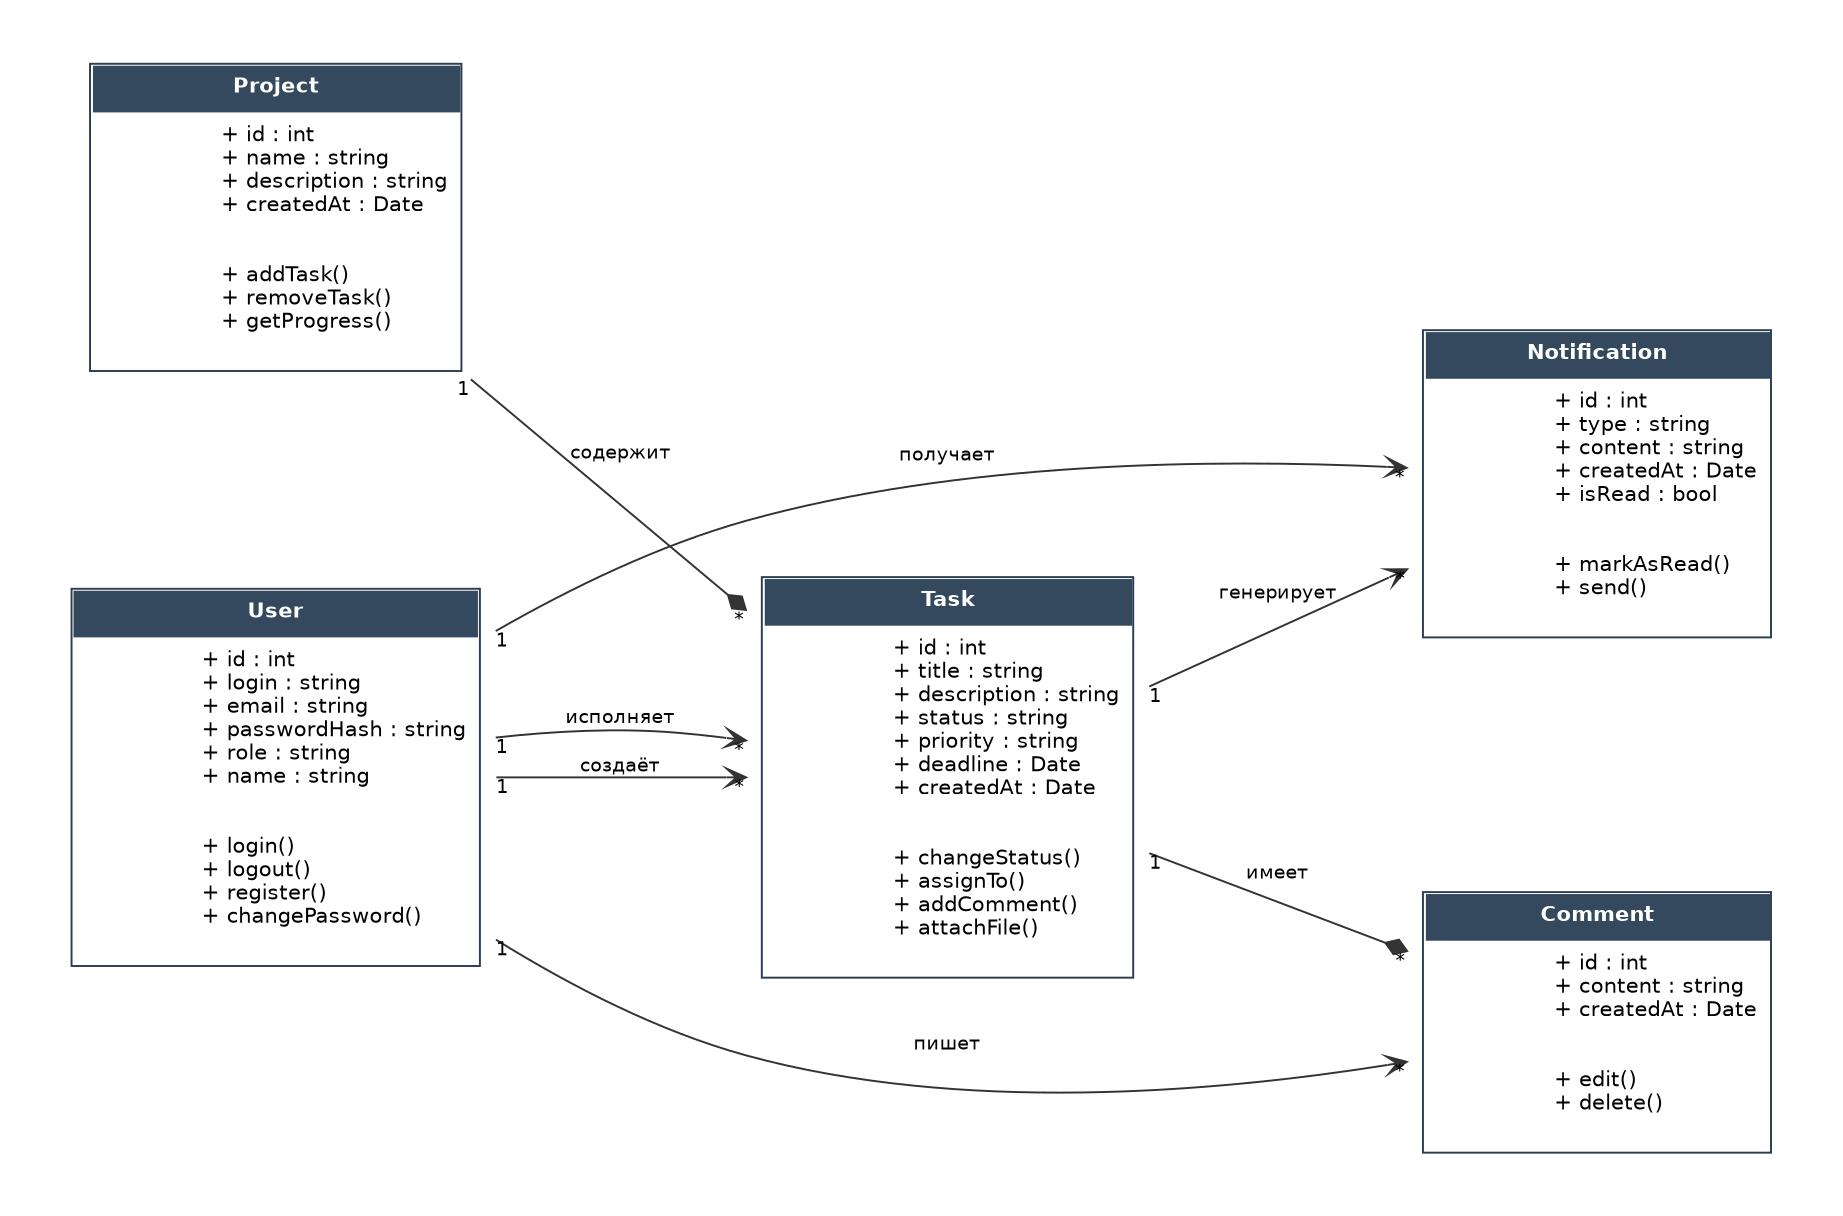
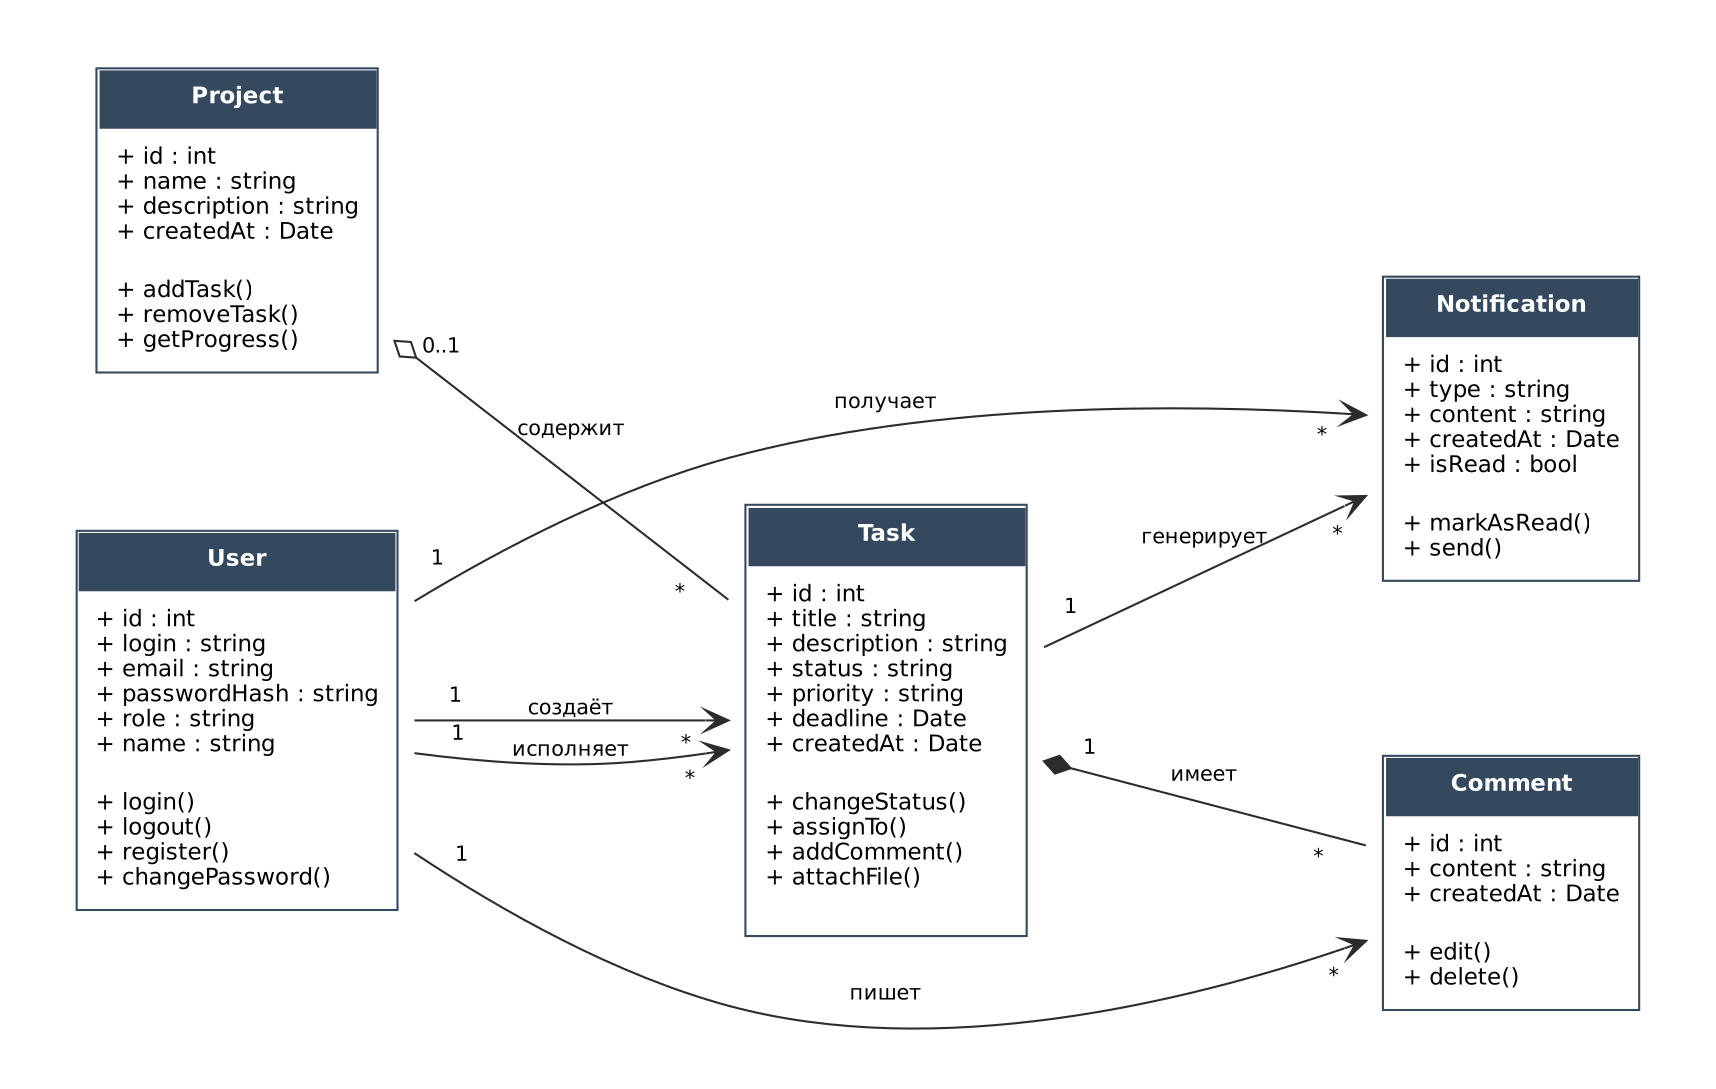
Связь Project–Task исправлена на агрегацию в тексте и на диаграмме классов (замечание 4)

diff --git a/docs/05-uml-test-cases.md b/docs/05-uml-test-cases.md
@@ -11,7 +11,7 @@
 | **Класс**        | **Назначение**                                                                                                   | **Связи**                                                                                                     |
 |------------------|------------------------------------------------------------------------------------------------------------------|---------------------------------------------------------------------------------------------------------------|
 | **User**         | Пользователь системы любой роли (исполнитель, менеджер, администратор). Хранит учётные данные и личные сведения. | Связан с Task (как автор и как исполнитель), Comment (автор), Notification (получатель).                      |
-| **Task**         | Задача — основная сущность системы. Имеет название, описание, срок, приоритет и статус.                          | Относится к Project (содержится в проекте), связан с User (автор, исполнитель), имеет Comment и Notification. |
+| **Task**         | Задача — основная сущность системы. Имеет название, описание, срок, приоритет и статус.                          | Может входить в Project, связан с User (автор, исполнитель), имеет Comment и Notification. |
 | **Project**      | Проект — группа связанных задач, объединённых общей целью или командой.                                          | Содержит множество Task (агрегация).                                                                          |
 | **Comment**      | Комментарий к задаче от исполнителя или менеджера.                                                               | Относится к одной Task и одному User-автору.                                                                  |
 | **Notification** | Уведомление о событии в системе (новая задача, изменение статуса, приближение срока).                            | Связан с User-получателем и Task, к которой относится событие.                                                |
@@ -20,7 +20,7 @@
 
 - User «один-ко-многим» Task — один пользователь может создавать множество задач и быть исполнителем многих задач (две связи с разными ролями).
 
-- Project «один-ко-многим» Task — отношение композиции: задачи существуют в составе проекта.
+- Project «один-ко-многим» Task — агрегация: задача может входить в проект (не более чем в один), но может существовать и без него — по ФТ 7 и ФТ 10 задачу сначала создают, а потом объединяют в проект.
 
 - Task «один-ко-многим» Comment — композиция: комментарии привязаны к задаче и не имеют смысла без неё.
 
